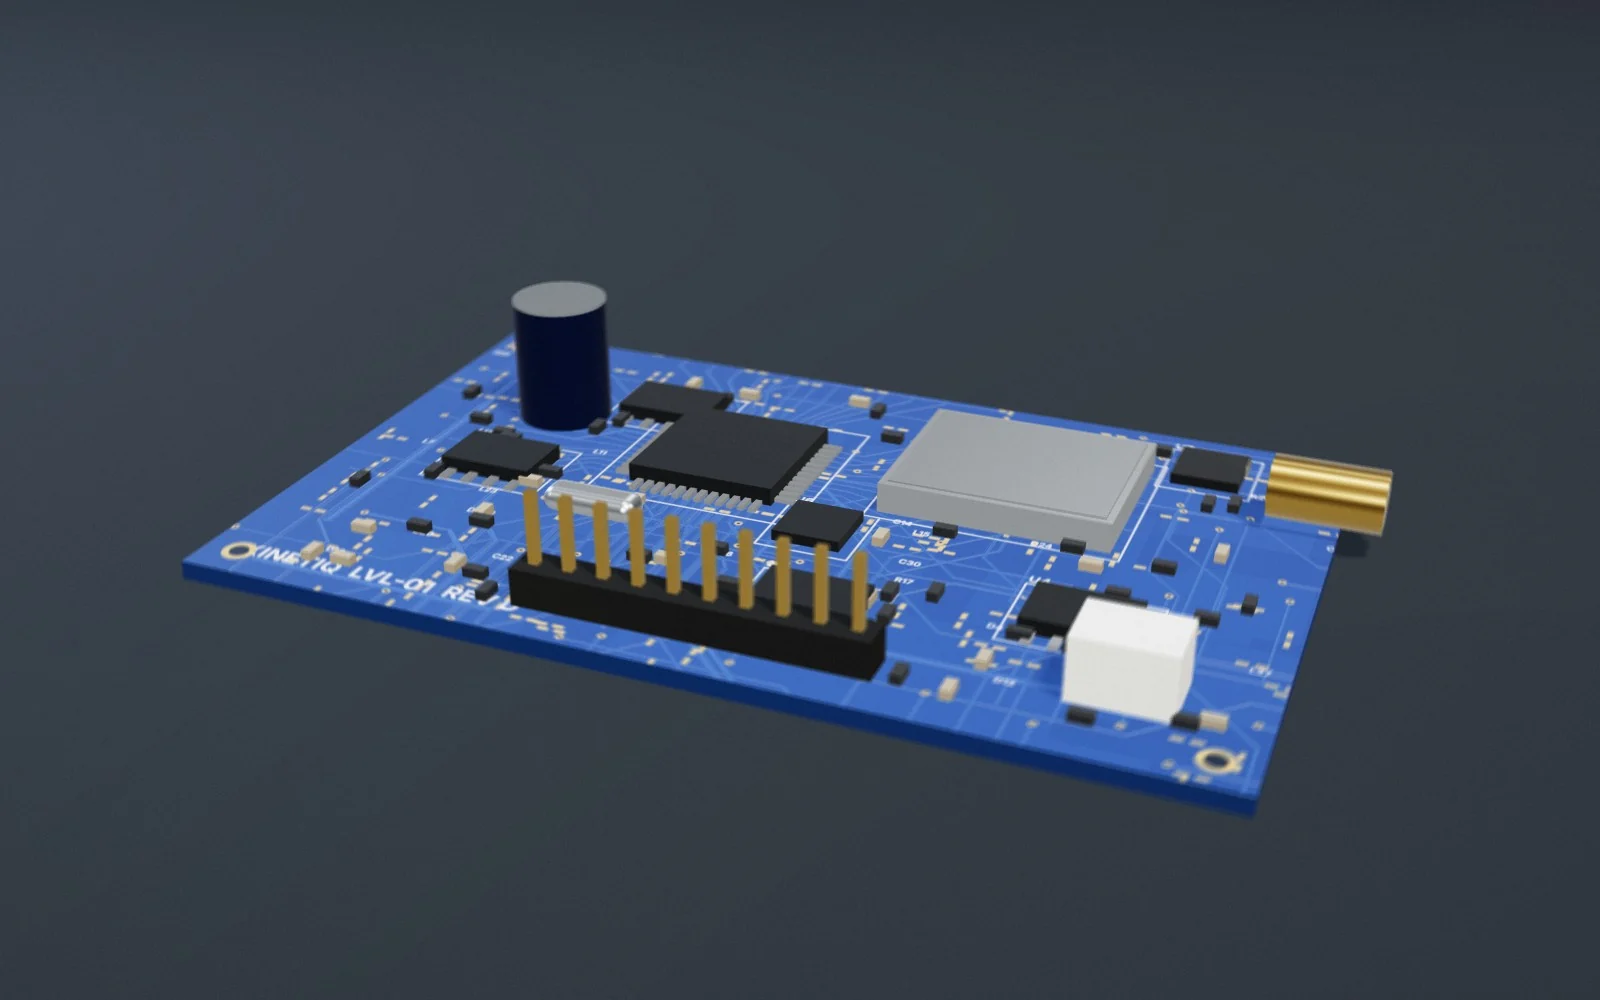
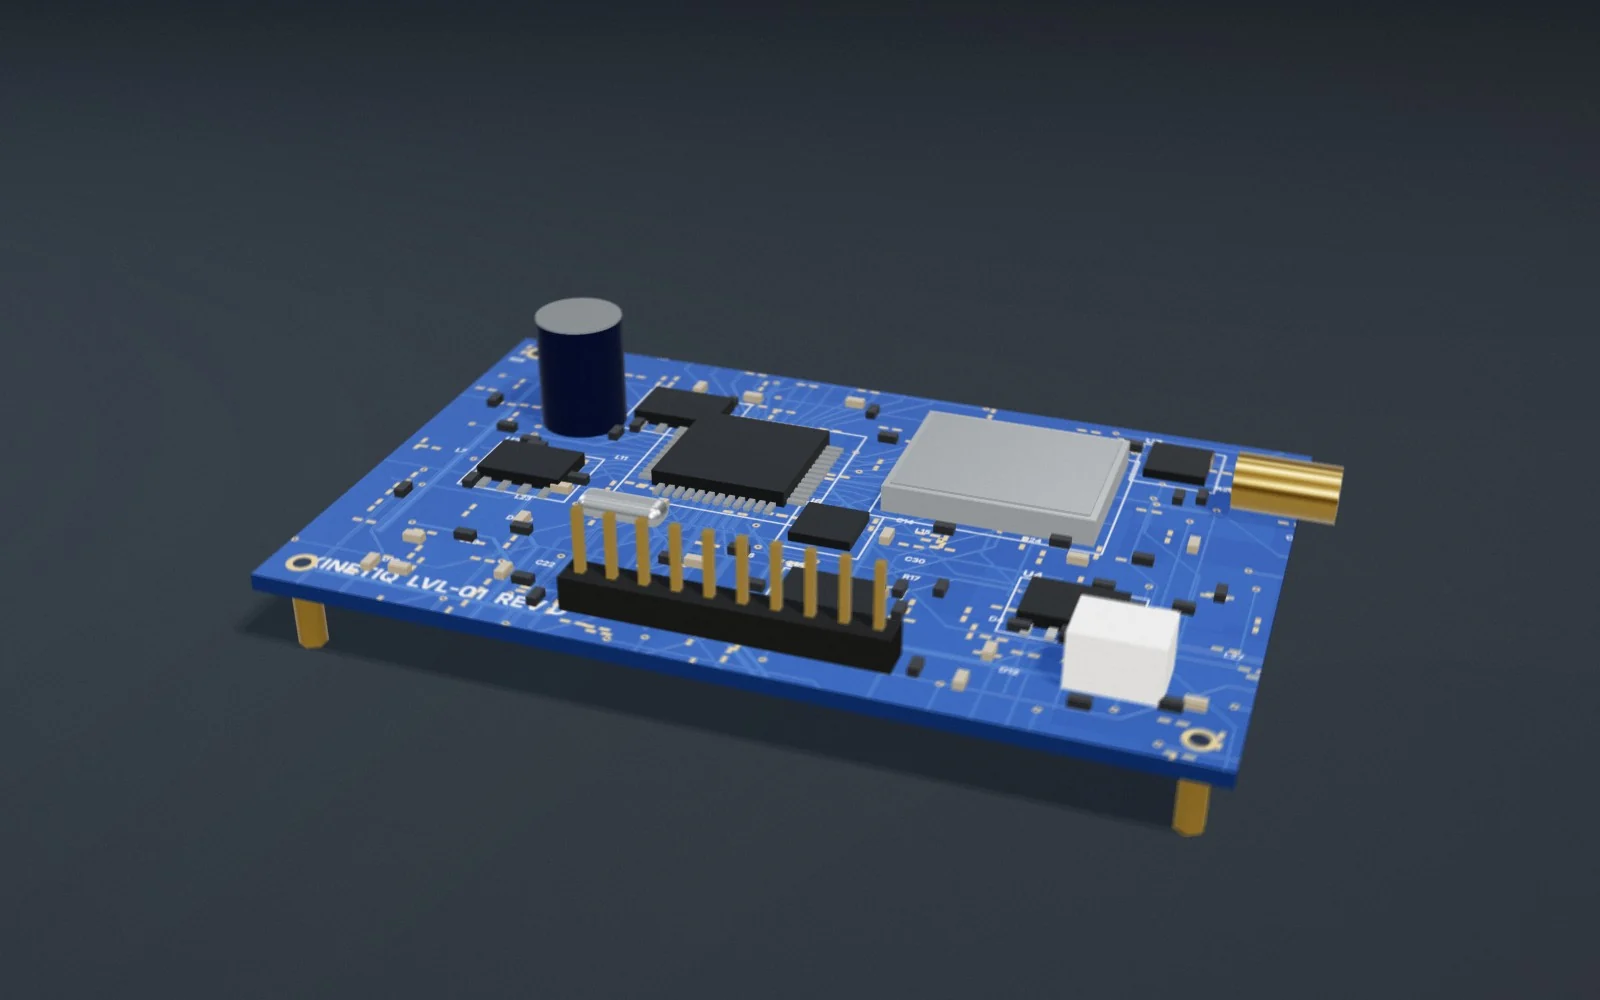
Service images: PCB and PLC in the exact studio of the gears image
The gears scene is restored as scenes/gears.js and its studio, key light and
camera are shared through gearsStudio(), so the PCB and PLC are shot in the
identical setup and their backgrounds match it to within compression noise.
The PCB now stands on brass standoffs and casts a soft shadow like the gears.

Claude-Session: https://claude.ai/code/session_01VYdmJyyLHh3p2ArsBJsgFX

Changed region(s): [[0.0938, 0.279, 0.875, 0.837], [0.0, 0.0, 0.0312, 0.031]]

diff --git a/tools/renders/scenes/gears.js b/tools/renders/scenes/gears.js
@@ -1,89 +1,19 @@
-// Custom machine design service image: the original gear train, tailored to
-// what Kinetiq builds. A DC gear motor drives the maroon pinion, an inductive
-// proximity sensor reads the big gear's teeth, a rotary encoder sits on the
-// back shaft, and all three are wired to a small Kinetiq controller board.
-import { studio, THREE, mat, add, gearGeo, tube, canvasTex } from '../studio.js';
-import { SERVICE_STUDIO } from '../service-studio.js';
-import { RoundedBoxGeometry } from 'three/addons/geometries/RoundedBoxGeometry.js';
+// Custom machine design service image (gears.webp): the three-gear train on
+// the lit studio floor. gearsStudio() holds its exact studio, light and camera
+// so the PCB and PLC images can share this background pixel for pixel.
+import { THREE, mat, add, gearGeo } from '../studio.js';
+import { gearsStudio } from '../service-studio.js';
 
 export default function () {
-  const q = new URLSearchParams(location.search);
-  const S = studio({ ...SERVICE_STUDIO, w: +(q.get('w') || 1600), h: +(q.get('h') || 1000), cam: [0.1, 5.3, 8.4], target: [-0.05, 0.35, -0.75], aperture: 0.06, samples: +(q.get('n') || 56) });
-  const steel = mat.metal('#c4cacd', 0.32), dark = mat.metal('#5d666c', 0.45);
-  const maroon = new THREE.MeshStandardMaterial({ color: '#7a1f2b', metalness: 0.7, roughness: 0.35 });
-  const black = mat.plastic('#1c2024', 0.5), wire = mat.rubber('#101214');
-
+  const S = gearsStudio(new URLSearchParams(location.search));
+  const st = mat.metal('#c4cacd', 0.32);
+  const mr = new THREE.MeshStandardMaterial({ color: '#7a1f2b', metalness: 0.7, roughness: 0.35 });
   const gear = (t, ro, rr, x, z, y, m, rot) => {
     add(S.scene, gearGeo(t, ro, rr, 0.22, 0.14), m, [x, y, z], [-Math.PI / 2, 0, rot]);
-    add(S.scene, new THREE.CylinderGeometry(0.14, 0.14, y + 0.3, 32), steel, [x, (y + 0.3) / 2, z]);
-    add(S.scene, new THREE.CylinderGeometry(0.28, 0.28, 0.12, 6), steel, [x, y + 0.17, z]);
+    add(S.scene, new THREE.CylinderGeometry(0.14, 0.14, y + 0.3, 32), st, [x, (y + 0.3) / 2, z]);
+    add(S.scene, new THREE.CylinderGeometry(0.28, 0.28, 0.12, 6), st, [x, y + 0.17, z]);
   };
-  gear(36, 1.42, 1.3, -0.9, 0, 0.7, steel, 0);
-  gear(18, 0.76, 0.64, 1.18, 0.05, 0.7, maroon, 0.08);
-  gear(24, 1.0, 0.88, 1.45, -1.55, 0.4, steel, 0.1);
-
-  // DC gear motor standing under the maroon pinion
-  const mx = 1.18, mz = 0.05;
-  add(S.scene, new THREE.CylinderGeometry(0.4, 0.4, 0.42, 48), mat.metal('#b8bfc4', 0.28), [mx, 0.23, mz]);
-  add(S.scene, new THREE.CylinderGeometry(0.4, 0.4, 0.04, 48), steel, [mx, 0.02, mz]);
-  add(S.scene, new THREE.CylinderGeometry(0.405, 0.405, 0.12, 48), maroon, [mx, 0.3, mz]);
-  add(S.scene, new THREE.CylinderGeometry(0.42, 0.42, 0.2, 48), black, [mx, 0.54, mz]);
-  for (const a of [0.6, 2.2, 3.8, 5.4]) add(S.scene, new THREE.CylinderGeometry(0.035, 0.035, 0.05, 12), steel, [mx + Math.cos(a) * 0.32, 0.66, mz + Math.sin(a) * 0.32]);
-  // motor terminals and leads (red / black) to the controller
-  const term = (dx, c) => { add(S.scene, new THREE.BoxGeometry(0.05, 0.1, 0.03), mat.metal('#d6b15a', 0.25), [mx + dx, 0.17, mz + 0.41]);
-    return c; };
-  term(-0.08); term(0.08);
-
-  // inductive proximity sensor (M18) aimed at the big gear's teeth, on an angle bracket
-  const sy = 0.81, sz = 0.35, tipX = -2.42;
-  const sensor = new THREE.Group(); sensor.position.set(tipX, sy, sz); S.scene.add(sensor);
-  add(sensor, new THREE.CylinderGeometry(0.16, 0.16, 0.95, 40), mat.metal('#b9a26a', 0.3), [-0.5, 0, 0], [0, 0, Math.PI / 2]);
-  for (let k = 0; k < 24; k++) add(sensor, new THREE.TorusGeometry(0.16, 0.012, 6, 40), mat.metal('#a58f5c', 0.35), [-0.12 - k * 0.032, 0, 0], [0, Math.PI / 2, 0], false);
-  add(sensor, new THREE.CylinderGeometry(0.15, 0.15, 0.06, 40), mat.plastic('#3a4045', 0.4), [0.0, 0, 0], [0, 0, Math.PI / 2]);
-  for (const x of [-0.3, -0.62]) add(sensor, new THREE.CylinderGeometry(0.24, 0.24, 0.08, 6), steel, [x, 0, 0], [0, 0, Math.PI / 2]);
-  add(sensor, new THREE.CylinderGeometry(0.15, 0.15, 0.16, 32), mat.plastic('#e8eaeb', 0.3), [-1.05, 0, 0], [0, 0, Math.PI / 2]);
-  add(sensor, new THREE.TorusGeometry(0.15, 0.025, 10, 32), mat.glow('#ff9a2e', 2.2), [-1.0, 0, 0], [0, Math.PI / 2, 0]);
-  add(sensor, new THREE.CylinderGeometry(0.06, 0.08, 0.2, 20), black, [-1.2, 0, 0], [0, 0, Math.PI / 2]);
-  // bracket: upright plate the sensor passes through, with a foot
-  add(S.scene, new THREE.BoxGeometry(0.06, 1.05, 0.62), mat.metal('#8d969b', 0.4), [tipX - 0.46, 0.525, sz]);
-  add(S.scene, new THREE.BoxGeometry(0.5, 0.06, 0.62), mat.metal('#8d969b', 0.4), [tipX - 0.7, 0.03, sz]);
-
-  // rotary encoder on top of the back gear's shaft
-  const ex = 1.45, ez = -1.55;
-  add(S.scene, new THREE.CylinderGeometry(0.05, 0.05, 0.3, 16), steel, [ex, 0.72, ez]);
-  add(S.scene, new THREE.CylinderGeometry(0.3, 0.3, 0.32, 48), mat.metal('#9aa3a8', 0.3), [ex, 0.95, ez]);
-  add(S.scene, new THREE.CylinderGeometry(0.31, 0.31, 0.06, 48), maroon, [ex, 1.08, ez]);
-  add(S.scene, new THREE.CylinderGeometry(0.29, 0.29, 0.02, 48), black, [ex, 1.12, ez]);
-  add(S.scene, new THREE.CylinderGeometry(0.07, 0.07, 0.18, 20), black, [ex + 0.32, 0.95, ez], [0, 0, Math.PI / 2]);
-
-  // Kinetiq controller board on the right with a green terminal block
-  const B = new THREE.Group(); B.position.set(3.15, 0.12, 0.55); B.rotation.y = -0.35; S.scene.add(B);
-  for (const [x, z] of [[-0.52, -0.33], [0.52, -0.33], [-0.52, 0.33], [0.52, 0.33]]) add(B, new THREE.CylinderGeometry(0.035, 0.035, 0.12, 12), mat.metal('#d6b15a', 0.25), [x, -0.06, z]);
-  const tex = canvasTex(512, 340, (c, w, h) => {
-    c.fillStyle = '#0d3f86'; c.fillRect(0, 0, w, h); c.strokeStyle = '#6fa6e8'; c.lineWidth = 3;
-    for (let i = 0; i < 26; i++) { const y = 40 + i * 11; c.beginPath(); c.moveTo(60 + (i % 5) * 18, y); c.lineTo(230, y); c.lineTo(260, y + 24); c.lineTo(470, y + 24); c.stroke(); }
-    c.fillStyle = '#e8eef5'; c.font = '700 30px Inter'; c.fillText('KINETIQ  MC-1', 24, h - 20);
-  });
-  const edge = new THREE.MeshStandardMaterial({ color: '#0b346e', roughness: 0.5 });
-  add(B, new THREE.BoxGeometry(1.2, 0.04, 0.8), [edge, edge, new THREE.MeshPhysicalMaterial({ map: tex, roughness: 0.35, clearcoat: 0.7 }), edge, edge, edge], [0, 0.02, 0]);
-  add(B, new THREE.BoxGeometry(0.32, 0.05, 0.32), mat.plastic('#15181b', 0.5), [-0.1, 0.065, 0.02]);
-  add(B, new THREE.BoxGeometry(0.18, 0.04, 0.12), mat.plastic('#15181b', 0.5), [0.32, 0.06, 0.14]);
-  add(B, new THREE.BoxGeometry(0.05, 0.03, 0.03), mat.glow('#3fbf7f', 2), [0.4, 0.055, 0.3]);
-  add(B, new THREE.BoxGeometry(0.05, 0.03, 0.03), mat.glow('#ff9a2e', 2), [0.48, 0.055, 0.3]);
-  for (let i = 0; i < 6; i++) {
-    const x = -0.45 + i * 0.18;
-    add(B, new RoundedBoxGeometry(0.17, 0.16, 0.2, 2, 0.02), mat.plastic('#2f9d63', 0.45), [x, 0.12, -0.28]);
-    add(B, new THREE.CylinderGeometry(0.04, 0.04, 0.02, 16), mat.metal('#c7ccd0', 0.3), [x, 0.205, -0.25]);
-  }
-  B.updateMatrixWorld(true);
-  const port = (i) => { const v = B.localToWorld(new THREE.Vector3(-0.45 + i * 0.18, 0.13, -0.39)); return [v.x, v.y, v.z]; };
-
-  // cables: soft curves lying on the floor into the terminal block
-  const cab = (pts, r = 0.035) => tube(S.scene, pts, r, wire, 200);
-  const p0 = port(0), p1 = port(1), p2 = port(2), p3 = port(3);
-  cab([[tipX - 1.3, sy, sz], [tipX - 1.55, 0.5, sz], [tipX - 1.6, 0.04, sz - 0.4], [-3.0, 0.04, -1.6], [-1.2, 0.04, -2.05], [0.3, 0.04, -2.3], [2.4, 0.04, -1.9], [p0[0] - 0.1, 0.04, p0[2] - 0.5], p0]);
-  cab([[ex + 0.42, 0.95, ez], [ex + 0.62, 0.6, ez + 0.05], [ex + 0.72, 0.04, ez + 0.3], [p1[0] - 0.05, 0.04, p1[2] - 0.45], p1]);
-  tube(S.scene, [[mx - 0.08, 0.14, mz + 0.43], [mx - 0.05, 0.05, mz + 0.65], [mx + 0.6, 0.03, mz + 0.8], [p2[0] - 0.2, 0.03, p2[2] - 0.35], p2], 0.022, mat.plastic('#b3262f', 0.5), 200);
-  tube(S.scene, [[mx + 0.08, 0.14, mz + 0.43], [mx + 0.12, 0.05, mz + 0.62], [mx + 0.7, 0.03, mz + 0.72], [p3[0] - 0.2, 0.03, p3[2] - 0.35], p3], 0.022, mat.plastic('#1a1c1e', 0.5), 200);
+  gear(36, 1.42, 1.3, -0.9, 0, 0.7, st, 0); gear(18, 0.76, 0.64, 1.18, 0.05, 0.7, mr, 0.08); gear(24, 1.0, 0.88, 1.45, -1.55, 0.4, st, 0.1);
+  if (new URLSearchParams(location.search).get('empty')) S.scene.children.filter((o) => o.isMesh && o !== S.floor).forEach((o) => S.scene.remove(o));
   S.finish();
 }

diff --git a/tools/renders/scenes/pcb3.js b/tools/renders/scenes/pcb3.js
@@ -3,15 +3,16 @@
 // connector) on a blue board with much more detail: dense routed traces, vias,
 // QFN/SOIC chips, passives, crystal, silkscreen. Shared dark service studio.
 import { studio, THREE, mat, add, canvasTex } from '../studio.js';
-import { SERVICE_STUDIO, servicePlate } from '../service-studio.js';
+import { gearsStudio } from '../service-studio.js';
 import { RoundedBoxGeometry } from 'three/addons/geometries/RoundedBoxGeometry.js';
 
 export default function () {
   const q = new URLSearchParams(location.search);
-  // Same lit studio floor and camera direction/distance as the custom machine (gears) image
-  const S = studio({ ...SERVICE_STUDIO, backdrop: null, w: +(q.get('w') || 1600), h: +(q.get('h') || 1000), cam: [0.7, 2.75, 5.2], target: [0, 0.1, 0],
-    aperture: 0.045, samples: +(q.get('n') || 56) });
-  const board = new THREE.Group(); board.rotation.y = -0.25; S.scene.add(board);
+  // Exactly the gears image's studio, light and camera, so the background matches it
+  const S = gearsStudio(q);
+  // board raised on brass standoffs so it casts a soft shadow, like the gears
+  const LIFT = 0.3, K = 1.2;
+  const board = new THREE.Group(); board.rotation.y = -0.25; board.scale.setScalar(K); board.position.set(0.05, LIFT, -0.35); S.scene.add(board);
   const W = 3.2, D = 2.0, PX = 2048 / W;   // texture pixels per unit
   let seed = 9; const r = () => (seed = (seed * 16807) % 2147483647) / 2147483647;
 
@@ -94,5 +95,7 @@ export default function () {
   box(1.1, 0.12, 0.12, parts.header[0], parts.header[1], new THREE.MeshStandardMaterial({ color: '#111' }));
   for (let k = 0; k < 10; k++) { const [px, pz] = at(parts.header[0] - 0.495 + k * 0.11, parts.header[1]); add(board, new THREE.BoxGeometry(0.03, 0.3, 0.03), mat.metal('#d6b15a', 0.2), [px, top + 0.2, pz]); }
   box(0.3, 0.22, 0.2, 2.8, 1.65, new THREE.MeshStandardMaterial({ color: '#f1f1ec', roughness: 0.5 }));
+  for (const [x, z] of [[0.12, 0.12], [W - 0.12, 0.12], [0.12, D - 0.12], [W - 0.12, D - 0.12]])
+    add(board, new THREE.CylinderGeometry(0.05, 0.05, LIFT / K, 6), mat.metal('#c9a64e', 0.3), [x - W / 2, -LIFT / K / 2, z - D / 2]);
   S.finish();
 }

diff --git a/tools/renders/scenes/plc3.js b/tools/renders/scenes/plc3.js
@@ -4,20 +4,19 @@
 // keys and a teal OK key, and a memory cartridge slot. Dark studio to match
 // the other service images.
 import { studio, THREE, mat, add, canvasTex, rectShadow } from '../studio.js';
-import { SERVICE_STUDIO, servicePlate } from '../service-studio.js';
+import { gearsStudio } from '../service-studio.js';
 import { RoundedBoxGeometry } from 'three/addons/geometries/RoundedBoxGeometry.js';
 
 export default function () {
   const q = new URLSearchParams(location.search);
-  // Same lit studio floor and camera direction/distance as the custom machine (gears) image
-  const S = studio({ ...SERVICE_STUDIO, backdrop: null, w: +(q.get('w') || 1600), h: +(q.get('h') || 1000),
-    cam: [0.85, 3.95, 5.6], target: [0.15, 1.15, 0.3], aperture: 0.03, samples: +(q.get('n') || 56) });
+  // Exactly the gears image's studio, light and camera, so the background matches it
+  const S = gearsStudio(q);
 
   const body = new THREE.MeshPhysicalMaterial({ color: '#eceeef', roughness: 0.5, clearcoat: 0.15 });
   const bodyDark = new THREE.MeshPhysicalMaterial({ color: '#cfd3d6', roughness: 0.55 });
   const blue = mat.plastic('#2f7d4f', 0.45), screw = mat.metal('#c8ccd0', 0.3), hole = mat.plastic('#121417', 0.7);
   // scaled to sit at the same size and camera distance as the gears and PCB
-  const g = new THREE.Group(); g.rotation.y = -0.28; g.scale.setScalar(0.6); S.scene.add(g);
+  const g = new THREE.Group(); g.rotation.y = -0.28; g.scale.setScalar(0.6); g.position.set(-1.45, 0, 0.45); S.scene.add(g);
   const W = 4.2, H = 2.9;
 
   // stepped housing: back (deepest) at the top and bottom terminal strips, raised centre

diff --git a/index.html b/index.html
@@ -105,11 +105,11 @@
             <div class="service-body"><h3 data-e="34">Custom machine design</h3><p data-e="35">One-off machines and mechanisms designed around the job, from concept sketches to CAD and a working build.</p></div>
           </a>
           <a class="service" href="services.html#electronics">
-            <div class="service-media"><img src="assets/img/renders/pcb.webp?v=5" alt="" width="1600" height="1000" loading="lazy" decoding="async"></div>
+            <div class="service-media"><img src="assets/img/renders/pcb.webp?v=6" alt="" width="1600" height="1000" loading="lazy" decoding="async"></div>
             <div class="service-body"><h3 data-e="36">Electronics &amp; PCB design</h3><p data-e="37">Sensor boards, controllers and long-range wireless telemetry, designed and tested in-house.</p></div>
           </a>
           <a class="service" href="services.html#plc">
-            <div class="service-media"><img src="assets/img/renders/plc.webp?v=5" alt="" width="1600" height="1000" loading="lazy" decoding="async"></div>
+            <div class="service-media"><img src="assets/img/renders/plc.webp?v=6" alt="" width="1600" height="1000" loading="lazy" decoding="async"></div>
             <div class="service-body"><h3 data-e="38">PLC programming</h3><p data-e="39">Programming, commissioning and fault-finding for PLC-controlled plant, new or existing.</p></div>
           </a>
           <a class="service textonly" href="services.html#automation">

diff --git a/services.html b/services.html
@@ -55,7 +55,7 @@
           </div>
         </div>
         <div class="detail" id="electronics">
-          <div class="detail-media" data-reveal="zoom"><img src="assets/img/renders/pcb.webp?v=5" alt="" width="1600" height="1000" loading="lazy" decoding="async"></div>
+          <div class="detail-media" data-reveal="zoom"><img src="assets/img/renders/pcb.webp?v=6" alt="" width="1600" height="1000" loading="lazy" decoding="async"></div>
           <div data-reveal>
             <h2 data-e="10">Electronics &amp; PCB design</h2>
             <p data-e="11" class="lede">Custom circuit boards for sensing, control and wireless communication. The boards inside our tank monitor were designed and tested in-house.</p>
@@ -63,7 +63,7 @@
           </div>
         </div>
         <div class="detail" id="plc">
-          <div class="detail-media" data-reveal="zoom"><img src="assets/img/renders/plc.webp?v=5" alt="" width="1600" height="1000" loading="lazy" decoding="async"></div>
+          <div class="detail-media" data-reveal="zoom"><img src="assets/img/renders/plc.webp?v=6" alt="" width="1600" height="1000" loading="lazy" decoding="async"></div>
           <div data-reveal>
             <h2 data-e="16">PLC programming</h2>
             <p data-e="17" class="lede">Programming and commissioning for PLC-controlled plant, whether it's a new control panel or an existing system that needs changes or fault-finding.</p>

diff --git a/tools/renders/service-studio.js b/tools/renders/service-studio.js
@@ -14,3 +14,14 @@ import { THREE, mat, add } from './studio.js';
 export function servicePlate(scene, w, d, pos = [0, 0, 0], top = 0) {
   return add(scene, new THREE.BoxGeometry(w, 0.2, d), mat.metal('#8a949b', 0.42), [pos[0], top - 0.1, pos[2]]);
 }
+
+// The exact studio, lighting and camera of the custom machine (gears) image,
+// so other service images can share its background pixel for pixel: the lit
+// floor (no fixed backdrop), the key light aimed as it was, and the same view.
+import { studio } from './studio.js';
+export function gearsStudio(q) {
+  const S = studio({ ...SERVICE_STUDIO, backdrop: null, w: +(q.get('w') || 1600), h: +(q.get('h') || 1000),
+    cam: [0, 3, 6], target: [0, 0.8, 0], aperture: 0.05, samples: +(q.get('n') || 56) });
+  S.camPos.set(0.6, 4.2, 6.4); S.target.set(0, 0.4, -0.4);
+  return S;
+}
